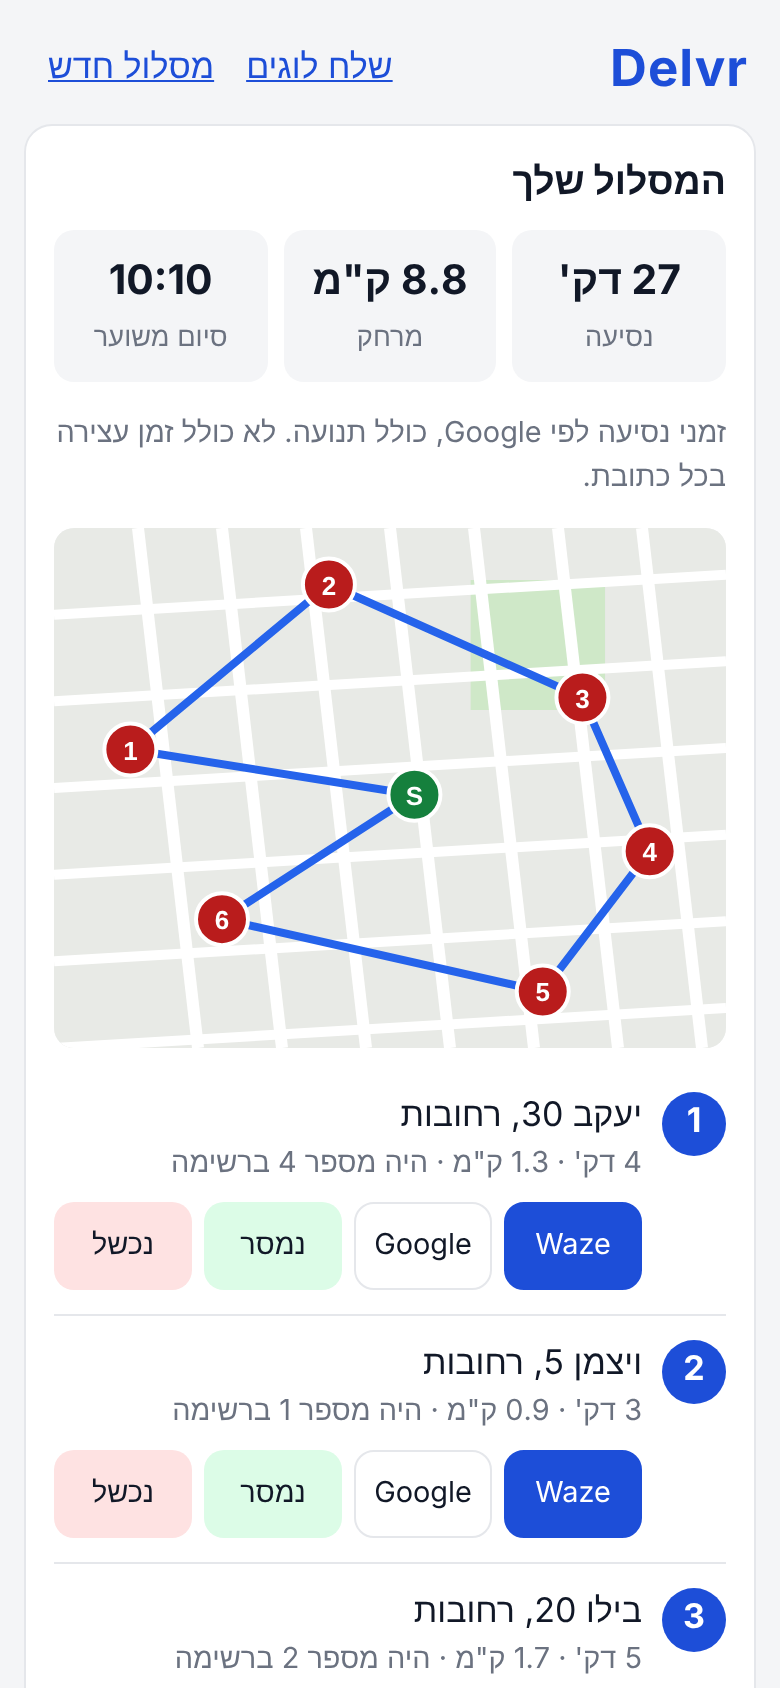
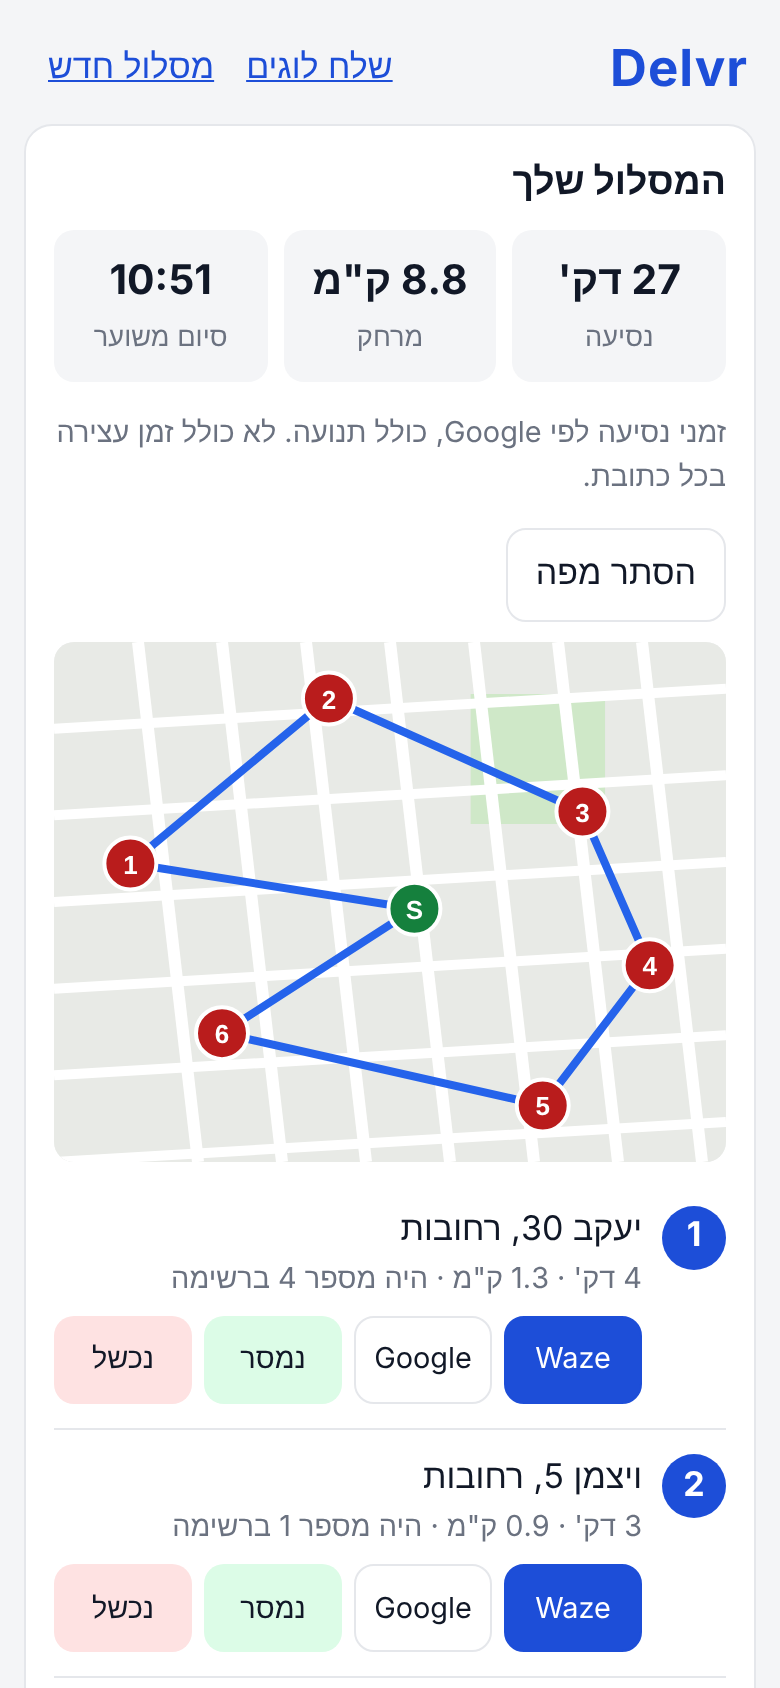
Hide the route map until the courier asks for it
Each map Google draws is a billed map load, including after every page
reload. The list and Waze links are enough to drive, so the map now opens
with a button and reloads cost nothing.

Claude-Session: https://claude.ai/code/session_01EY6tHRVBs3iQ9sipKBo8wo

diff --git a/src/ui/RouteView.tsx b/src/ui/RouteView.tsx
@@ -1,3 +1,4 @@
+import { useState } from 'react';
 import { endModeOf, fmtClock, fmtDuration, fmtKm, orderedStops } from '../domain/plan';
 import type { Plan, Stop } from '../domain/types';
 import { googleMapsUrl, wazeUrl } from '../services/navigation';
@@ -18,6 +19,8 @@ export function RouteView({ plan, onDelivery, onReoptimize, busy }: Props) {
   const done = plan.stops.filter((s) => s.delivery !== 'todo').length;
   const routed = new Set(opt.order);
   const endLeg = opt.legs[opt.order.length];
+  // Hidden until asked for: every map Google draws is a billed map load, and the list plus Waze is enough to drive.
+  const [showMap, setShowMap] = useState(false);
 
   return (
     <section className="card">
@@ -28,7 +31,8 @@ export function RouteView({ plan, onDelivery, onReoptimize, busy }: Props) {
         <div><b>{fmtClock(opt.at + opt.totalDurationSec * 1000)}</b><span>סיום משוער</span></div>
       </div>
       <p className="muted small">זמני נסיעה לפי Google, כולל תנועה. לא כולל זמן עצירה בכל כתובת. {done ? `${done} מתוך ${plan.stops.length} טופלו.` : ''}</p>
-      <MapView start={plan.start.location} points={points} polyline={opt.polyline} />
+      <button type="button" className="ghost" onClick={() => setShowMap((v) => !v)}>{showMap ? 'הסתר מפה' : 'הצג מפה'}</button>
+      {showMap && <MapView start={plan.start.location} points={points} polyline={opt.polyline} />}
       <ol className="route">
         {stops.map((s, i) => {
           const leg = routed.has(s.id) ? opt.legs[opt.order.indexOf(s.id)] : undefined;

diff --git a/docs/SETUP.md b/docs/SETUP.md
@@ -104,12 +104,14 @@ Delvr משתמש בשני מפתחות:
 | | ביום | בחודש | מכסה חינמית |
 |---|---|---|---|
 | אימות כתובות | ~30 | ~750 | 10,000 |
-| טעינות מפה | ~10 | ~250 | 10,000 |
+| טעינות מפה (רק כשלוחצים "הצג מפה") | 0 עד 3 | עד ~75 | 10,000 |
 | סידורי מסלול | ~4 | ~100 | 5,000 |
 
 כלומר שימוש אישי רחוק מאוד מהמכסה. הסיכון האמיתי הוא לא אתה, אלא מפתח שדלף או אתר שמישהו אחר מפעיל בלולאה. לכן הסעיף הבא.
 
-כל כתובת ש-Google אישר (וגם כתובת שתיקנת) נשמרת בטלפון ל-30 יום, ולא נשלחת שוב ל-Google בתקופה הזו. 30 יום הם התקופה שתנאי השימוש של Google מתירים לשמור קואורדינטות. במסך המסלול נטענת מפה אחת, וסימון "נמסר" או "נכשל" לא טוען מפה חדשה.
+כל כתובת ש-Google אישר (וגם כתובת שתיקנת) נשמרת בטלפון ל-30 יום, ולא נשלחת שוב ל-Google בתקופה הזו. 30 יום הם התקופה שתנאי השימוש של Google מתירים לשמור קואורדינטות. המפה במסך המסלול מוסתרת עד שלוחצים "הצג מפה", ורק אז נספרת טעינה. אחרי שפתחת אותה, סימון "נמסר" או "נכשל" לא טוען מפה חדשה.
+
+אין דרך לאמת כמה כתובות בבקשה אחת: ב-Geocoding של Google כל כתובת היא בקשה נפרדת שנספרת לבד. הסידור עצמו כבר נשלח כבקשה אחת לכל העצירות.
 
 ---
 
